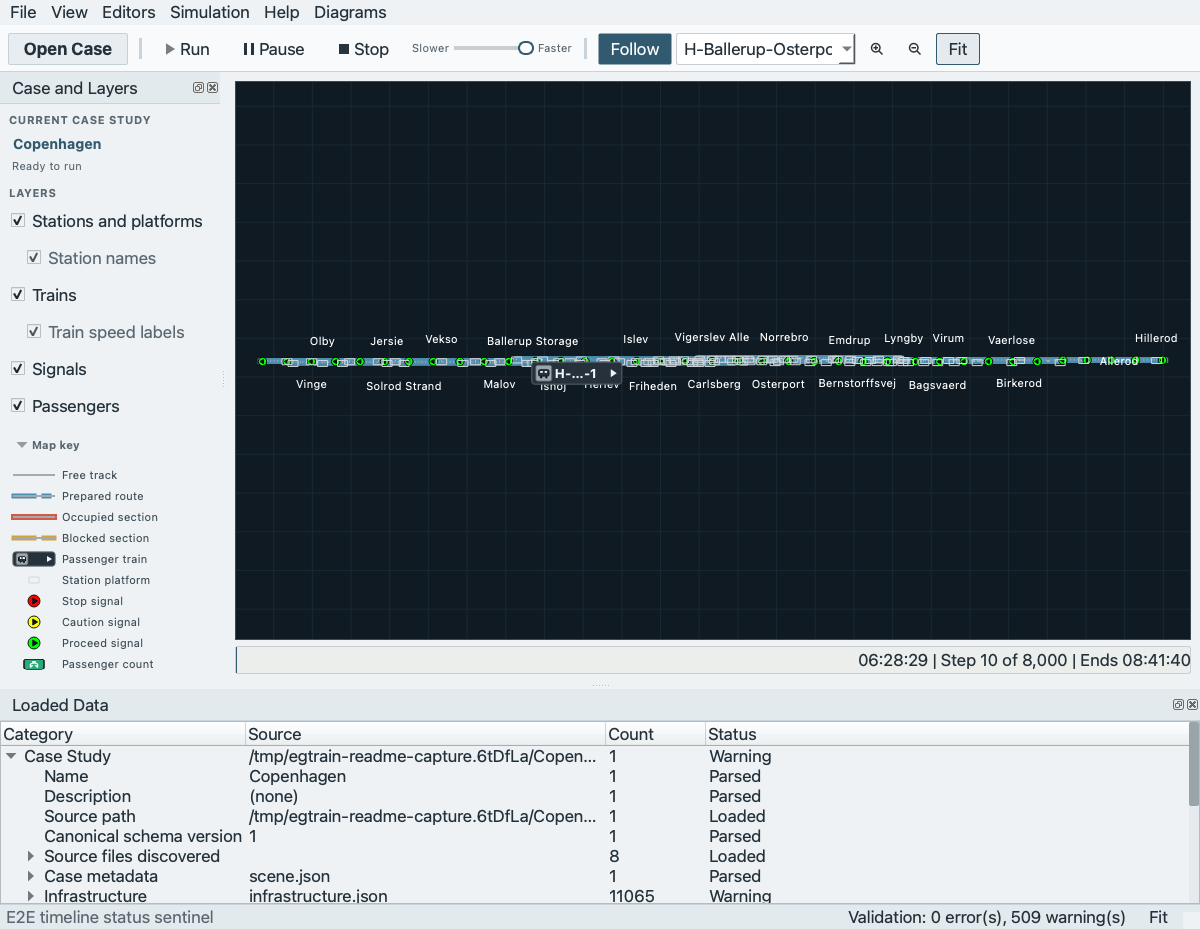
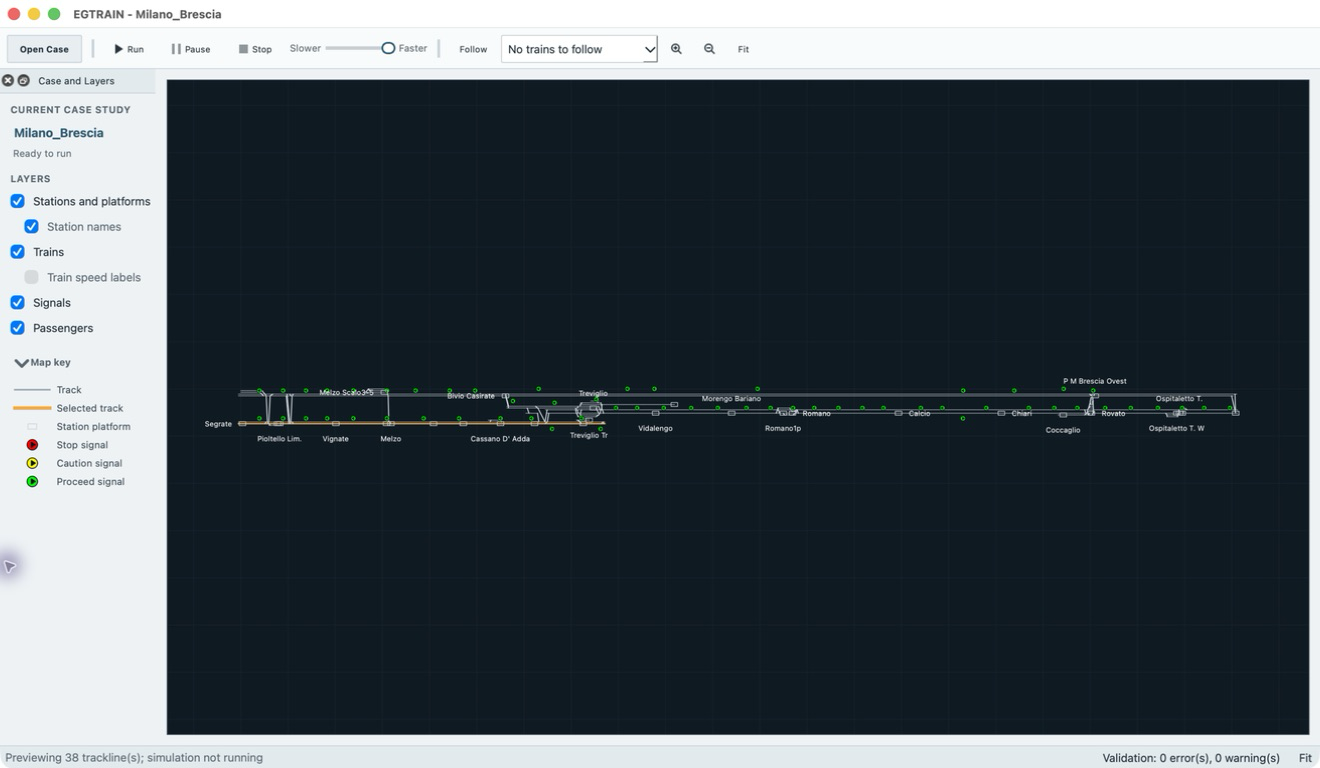
Refresh README screenshots

diff --git a/README.md b/README.md
@@ -1,12 +1,15 @@
 # EGTRAIN
 
-![EGTRAIN application overview](docs/images/application-overview.png)
+![Milano to Brescia case study preview in EGTRAIN](docs/images/application-overview.png)
 
-![EGTRAIN Copenhagen network view](docs/images/application-network-view.png)
+![Speed versus distance results for the Milano to Brescia case study](docs/images/application-network-view.png)
 
 EGTRAIN is a desktop application for microscopic railway simulation. It
 combines railway infrastructure, signalling, rolling stock, services,
 timetables, and passenger demand in an interactive Qt interface.
+
+The screenshots show the Milano to Brescia corridor before a run and its
+speed-versus-distance results after the baseline simulation completes.
 
 ## Start here
 
